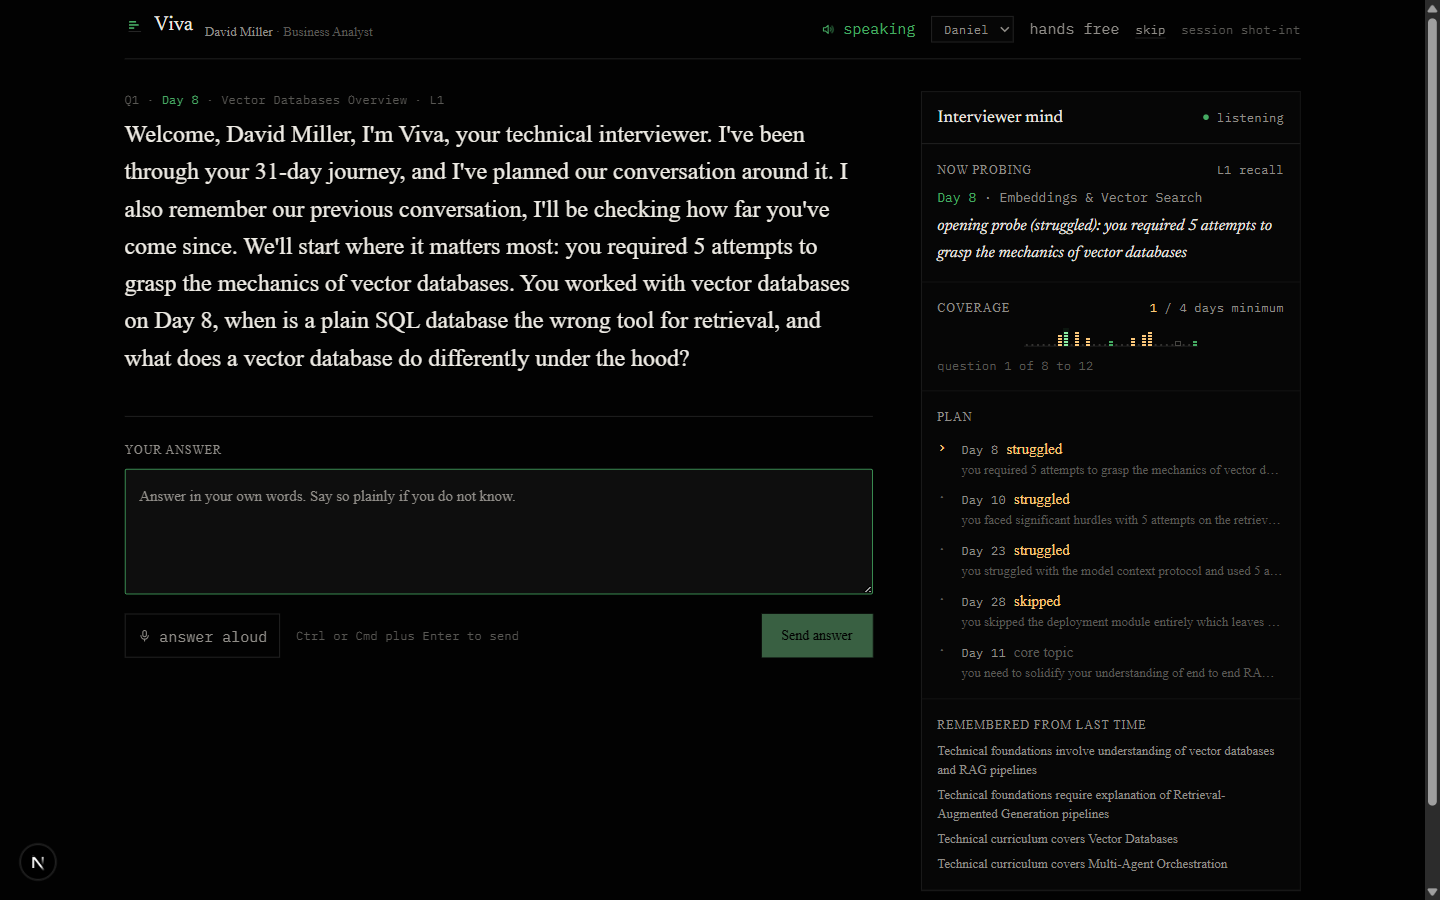
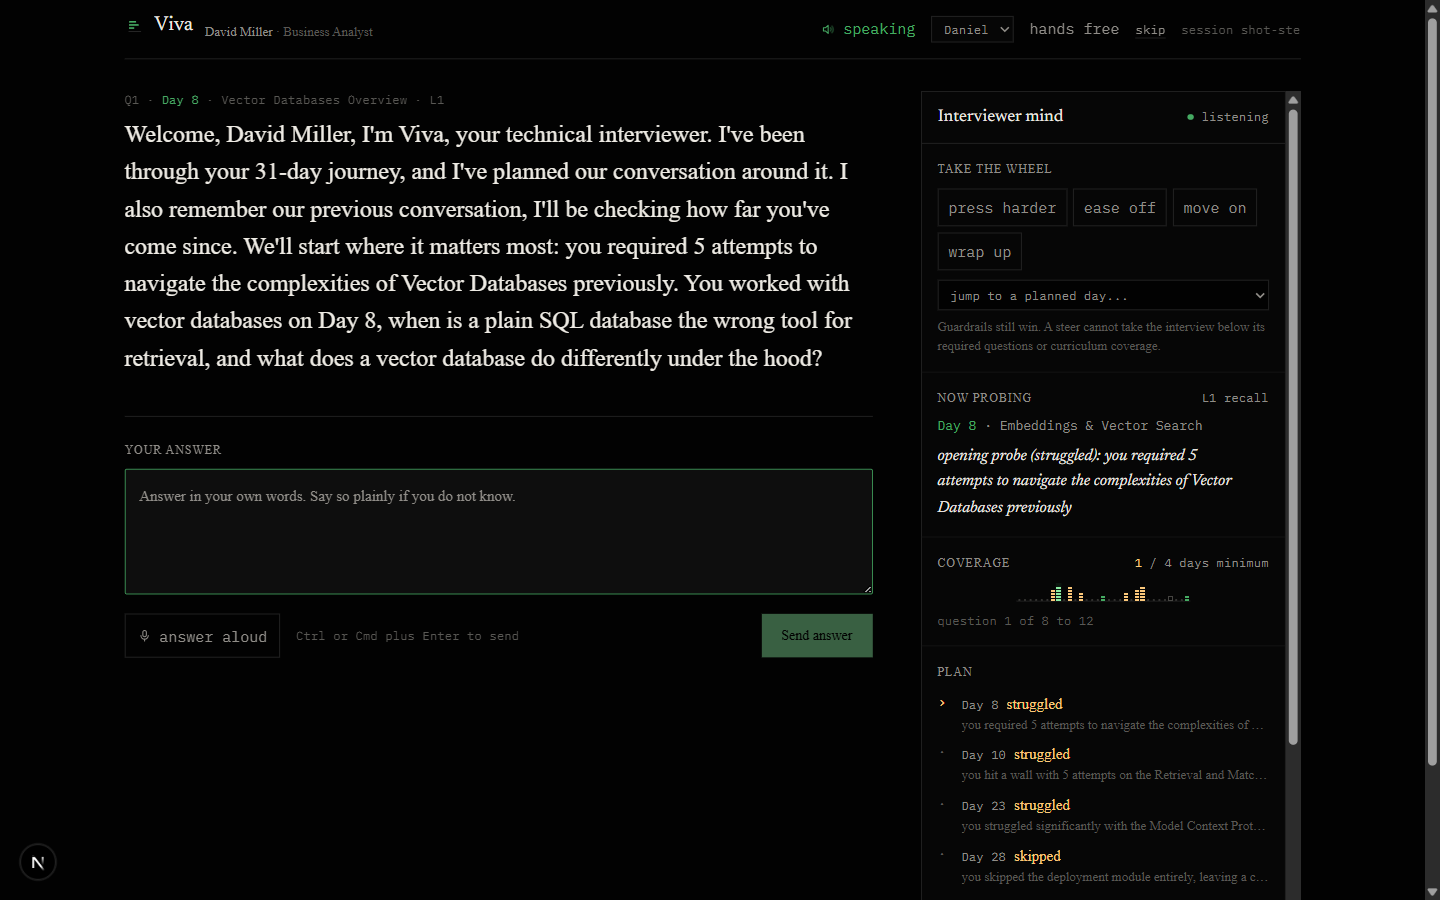
prog9

Changed region(s): [[0.6562, 0.0933, 0.9062, 1.0], [0.0938, 0.3111, 0.5938, 0.4044], [0.9688, 0.84, 1.0, 0.9022]]

diff --git a/components/landing-sections.tsx b/components/landing-sections.tsx
@@ -106,7 +106,7 @@ export function MindSection() {
                 Interviewer mind
               </span>
             </div>
-            <div className="space-y-2 p-4">
+            <div className="space-y-2 border-b border-rule-soft p-4">
               <p className="field-label">Now probing</p>
               <p className="font-mono text-ui-sm text-quill">
                 Day 8 <span className="text-dim">· Embeddings &amp; Vector Search</span>
@@ -116,6 +116,43 @@ export function MindSection() {
                 Databases Overview on Day 8
               </p>
             </div>
+            <div className="p-4">
+              <p className="field-label">Take the wheel</p>
+              <div className="mt-2.5 flex flex-wrap gap-1.5">
+                {["press harder", "ease off", "move on", "wrap up"].map((s) => (
+                  <span
+                    key={s}
+                    className="border border-rule px-2.5 py-1.5 font-mono text-data text-dim"
+                  >
+                    {s}
+                  </span>
+                ))}
+              </div>
+            </div>
+          </div>
+
+          <div className="mt-8 max-w-[52ch]">
+            <h3 className="font-voice text-[1.25rem] text-ink">
+              And you can grab the wheel mid-interview.
+            </h3>
+            <p className="mt-3 text-body text-dim">
+              Every other interview agent is something you watch. Push the
+              examiner while it is running and it obeys on the very next
+              question, in character.
+            </p>
+            <p className="mt-3 text-body text-dim">
+              The interesting part is what happens when a steer breaks a rule.
+              It loses. Ask it to wrap at question two and it politely carries
+              on, because the guardrails run after the steer, not before it:
+            </p>
+            <p className="mt-3 border-l border-rule pl-4 font-mono text-data leading-relaxed text-faint">
+              The candidate defined embeddings but failed to address why SQL is
+              insufficient.{" "}
+              <span className="text-lamp">[steered by observer: wrap]</span>{" "}
+              <span className="text-lamp">
+                [policy: difficulty increase blocked after a weak answer]
+              </span>
+            </p>
           </div>
         </div>
 

diff --git a/app/api-docs/page.tsx b/app/api-docs/page.tsx
@@ -121,6 +121,17 @@ export default function ApiDocsPage() {
         <h2 className="field-label">Behaviour a test harness can rely on</h2>
         <ul className="mt-4 space-y-2.5">
           <Guarantee>
+            Everything Viva adds beyond the specification lives on its own
+            routes, never on this one.{" "}
+            <code className="font-mono text-quill">GET /api/session/[id]</code>{" "}
+            feeds the reasoning panel and{" "}
+            <code className="font-mono text-quill">
+              POST /api/session/[id]/steer
+            </code>{" "}
+            lets an observer steer the examiner, so an automated test of the
+            contract never sees a field it did not send.
+          </Guarantee>
+          <Guarantee>
             Never a 5xx. A malformed body returns 400 with a JSON error, an
             unknown sessionId without a candidate returns 200 and restarts in
             character, and any unexpected failure returns 200 with a graceful

diff --git a/README.md b/README.md
@@ -39,7 +39,7 @@ Every candidate's 31 days is drawn in **the examiner's own notation**: one strok
 
 ![The interview and the Interviewer Mind panel](./docs/screenshots/02-interview-and-mind-panel.png)
 
-The **Interviewer Mind** panel is the differentiator. While you answer, it shows why this question was chosen, which curriculum days are covered against the minimum, per module confidence updating live, the remaining plan, and any policy override that fired. Most interview agents are a black box. This one shows its work.
+The **Interviewer Mind** panel is the differentiator. While you answer, it shows why this question was chosen, which curriculum days are covered against the minimum, per module confidence updating live, the remaining plan, and any policy override that fired. Most interview agents are a black box. This one shows its work, and lets you take the wheel.
 
 ![The evidence linked report](./docs/screenshots/04-report-evidence.png)
 
